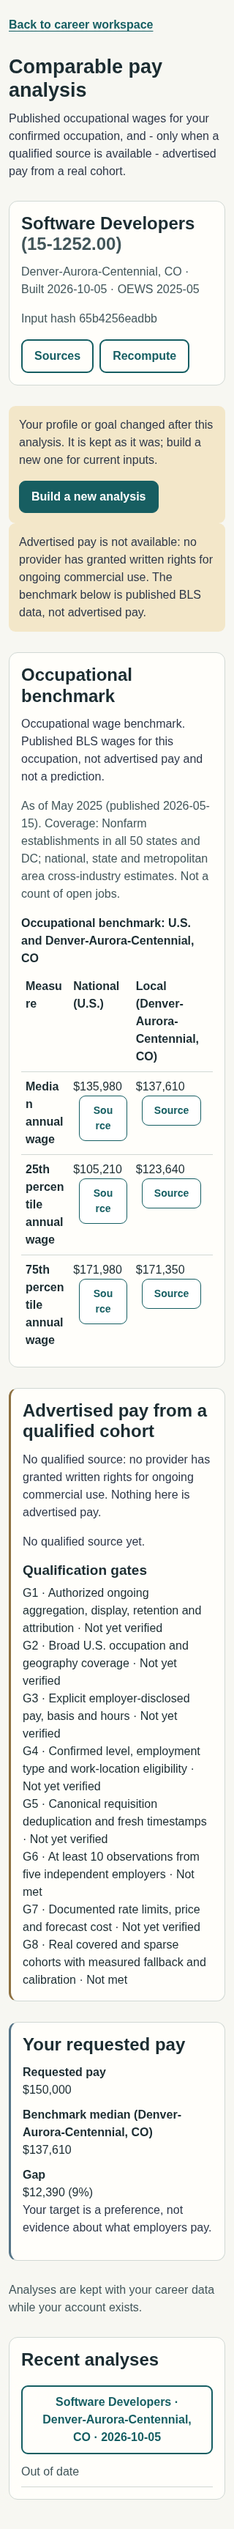
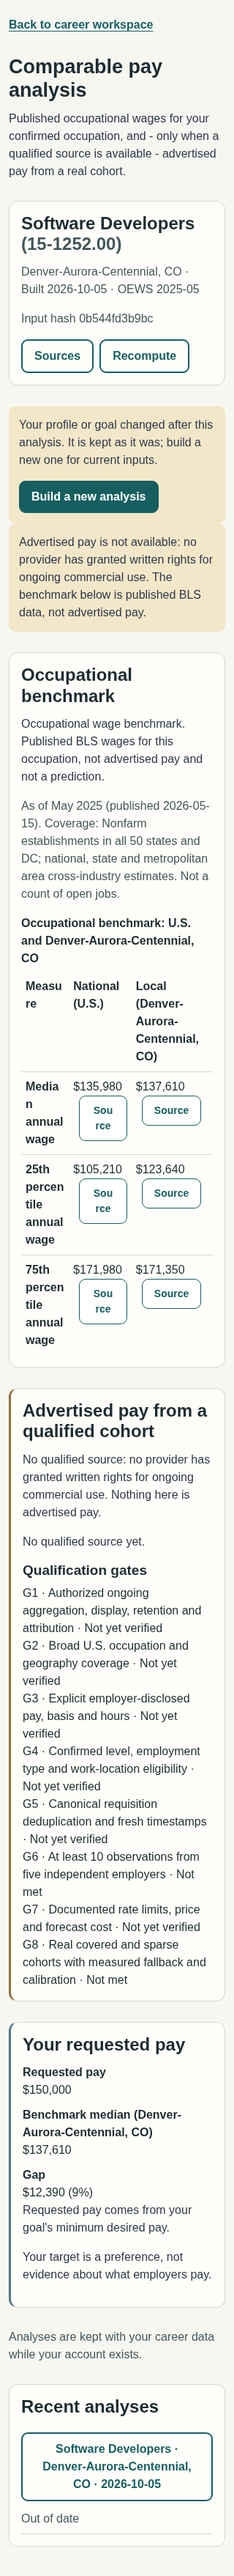
Record the requested-pay source, refresh #384 evidence, drop a volatile hash quote (#384)

diff --git a/AI.ProfilePhotoMaker.API/Services/Career/CareerAgentRunner.cs b/AI.ProfilePhotoMaker.API/Services/Career/CareerAgentRunner.cs
@@ -388,11 +388,15 @@ public sealed class CareerAgentRunner : ICareerAgentRunner
             sourceFailed = true;
         }
         var asOf = Now();
+        // Record which end of the goal's desired pay the scenario compares against, so the stored
+        // row and a recompute agree and the page can say where the target came from.
+        var paySource = goal.DesiredPayMin.HasValue ? "desiredPayMin" : goal.DesiredPayMax.HasValue ? "desiredPayMax" : null;
         var input = new PayAnalysisInput(run.PinnedProfileVersion!.Value, run.PinnedGoalVersion!.Value,
             goal.OccupationCode, goal.OccupationTitle, goal.TargetLocation, goal.DesiredPayMin ?? goal.DesiredPayMax,
             location.Local?.Code, location.Local?.Title, location.Resolution,
             _market!.Oews?.Source.ReferencePeriod, EmbeddedMarketReference.ExpectedSha256,
-            _market.Projections?.Source.ReferencePeriod, PayEvidenceRules.RuleVersion, _paySource.SourceId, rows, asOf);
+            _market.Projections?.Source.ReferencePeriod, PayEvidenceRules.RuleVersion, _paySource.SourceId, rows, asOf,
+            paySource);
         var content = PayAnalysisBuilder.Build(input, _market, sourceFailed);
         var row = new CareerPayAnalysis
         {
@@ -400,7 +404,7 @@ public sealed class CareerAgentRunner : ICareerAgentRunner
             PinnedProfileVersion = input.ProfileVersion, PinnedGoalVersion = input.GoalVersion,
             OccupationCode = input.OccupationCode, OccupationTitle = input.OccupationTitle,
             AreaCode = input.AreaCode, AreaTitle = input.AreaTitle, AreaResolution = input.AreaResolution,
-            LocationInput = input.LocationText, RequestedAnnual = input.RequestedAnnual,
+            LocationInput = input.LocationText, RequestedAnnual = input.RequestedAnnual, RequestedPaySource = input.RequestedPaySource,
             OewsRelease = input.OewsRelease, OewsSnapshotSha256 = input.OewsSnapshotSha256,
             ProjectionsRelease = input.ProjectionsRelease, RuleVersion = input.RuleVersion,
             ObservationSourceId = input.ObservationSourceId, ObservationCount = rows.Count,

diff --git a/AI.ProfilePhotoMaker.API.Tests/Integration/Career/CareerPrivateDataTests.cs b/AI.ProfilePhotoMaker.API.Tests/Integration/Career/CareerPrivateDataTests.cs
@@ -156,6 +156,17 @@ public class CareerPrivateDataTests : IClassFixture<CareerWorkspaceEnabledFactor
             .Contain(i => i.Table == "CareerPayAnalyses" && i.IsUnique && i.Columns.SequenceEqual(new[] { "RunId" }));
     }
 
+    [Fact]
+    public void ThePaySourceMigrationOnlyAddsOneNullableColumn()
+    {
+        var operations = new AddCareerPayAnalysisPaySource().UpOperations;
+        AssertAdditive(operations, allowAddColumn: true);
+        var added = operations.OfType<AddColumnOperation>().Should().ContainSingle().Subject;
+        (added.Table, added.Name, added.IsNullable).Should().Be(("CareerPayAnalyses", "RequestedPaySource", true));
+        operations.OfType<DropTableOperation>().Should().BeEmpty();
+        operations.OfType<DropColumnOperation>().Should().BeEmpty();
+    }
+
     private static void AssertAdditive(IReadOnlyList<MigrationOperation> operations, bool allowAddColumn)
     {
         operations.Should().NotBeEmpty();

diff --git a/AI.ProfilePhotoMaker.API/Migrations/20261005180728_AddCareerPayAnalysisPaySource.Designer.cs b/AI.ProfilePhotoMaker.API/Migrations/20261005180728_AddCareerPayAnalysisPaySource.Designer.cs
@@ -4,6 +4,7 @@ using AI.ProfilePhotoMaker.API.Data;
 using Microsoft.EntityFrameworkCore;
 using Microsoft.EntityFrameworkCore.Infrastructure;
 using Microsoft.EntityFrameworkCore.Metadata;
+using Microsoft.EntityFrameworkCore.Migrations;
 using Microsoft.EntityFrameworkCore.Storage.ValueConversion;
 
 #nullable disable
@@ -11,9 +12,11 @@ using Microsoft.EntityFrameworkCore.Storage.ValueConversion;
 namespace AI.ProfilePhotoMaker.API.Migrations
 {
     [DbContext(typeof(ApplicationDbContext))]
-    partial class ApplicationDbContextModelSnapshot : ModelSnapshot
+    [Migration("20261005180728_AddCareerPayAnalysisPaySource")]
+    partial class AddCareerPayAnalysisPaySource
     {
-        protected override void BuildModel(ModelBuilder modelBuilder)
+        /// <inheritdoc />
+        protected override void BuildTargetModel(ModelBuilder modelBuilder)
         {
 #pragma warning disable 612, 618
             modelBuilder

diff --git a/AI.ProfilePhotoMaker.API.Tests/Services/Career/PayAnalysisBuilderTests.cs b/AI.ProfilePhotoMaker.API.Tests/Services/Career/PayAnalysisBuilderTests.cs
@@ -167,6 +167,18 @@ public class PayAnalysisBuilderTests
     }
 
     [Fact]
+    public void ThePaySourceIsRecordedSoThePageCanSayWhereTheTargetCameFrom()
+    {
+        // The runner records which end of the goal's desired pay it compared against; the builder
+        // reports it verbatim, and recompute reproduces it because the row stores it.
+        var scenario = PayAnalysisBuilder.Build(
+            Input(Fixture(12)) with { RequestedPaySource = "desiredPayMax" }, Reference).Sections.Scenario;
+
+        Assert.Equal("desiredPayMax", scenario.RequestedPaySource);
+        Assert.Null(PayAnalysisBuilder.Build(Input(Fixture(12)), Reference).Sections.Scenario.RequestedPaySource);
+    }
+
+    [Fact]
     public void TheScenarioNamesTheAreaItComparesAgainstAndWhereTheTargetCameFrom()
     {
         var scenario = PayAnalysisBuilder.Build(

diff --git a/AI.ProfilePhotoMaker.API/Migrations/20261005180728_AddCareerPayAnalysisPaySource.cs b/AI.ProfilePhotoMaker.API/Migrations/20261005180728_AddCareerPayAnalysisPaySource.cs
@@ -1,0 +1,28 @@
+using Microsoft.EntityFrameworkCore.Migrations;
+
+#nullable disable
+
+namespace AI.ProfilePhotoMaker.API.Migrations
+{
+    /// <inheritdoc />
+    public partial class AddCareerPayAnalysisPaySource : Migration
+    {
+        /// <inheritdoc />
+        protected override void Up(MigrationBuilder migrationBuilder)
+        {
+            migrationBuilder.AddColumn<string>(
+                name: "RequestedPaySource",
+                table: "CareerPayAnalyses",
+                type: "nvarchar(max)",
+                nullable: true);
+        }
+
+        /// <inheritdoc />
+        protected override void Down(MigrationBuilder migrationBuilder)
+        {
+            migrationBuilder.DropColumn(
+                name: "RequestedPaySource",
+                table: "CareerPayAnalyses");
+        }
+    }
+}

diff --git a/AI.ProfilePhotoMaker.API/Services/Career/CareerPayService.cs b/AI.ProfilePhotoMaker.API/Services/Career/CareerPayService.cs
@@ -99,7 +99,7 @@ public sealed class CareerPayService : ICareerPayService
         var input = new PayAnalysisInput(a.PinnedProfileVersion, a.PinnedGoalVersion, a.OccupationCode,
             a.OccupationTitle, a.LocationInput, a.RequestedAnnual, a.AreaCode, a.AreaTitle, a.AreaResolution,
             a.OewsRelease, a.OewsSnapshotSha256, a.ProjectionsRelease, a.RuleVersion, _source.SourceId,
-            rows, DateTime.SpecifyKind(a.CreatedAt, DateTimeKind.Utc));
+            rows, DateTime.SpecifyKind(a.CreatedAt, DateTimeKind.Utc), a.RequestedPaySource);
         var built = PayAnalysisBuilder.Build(input, _reference, sourceFailed);
         var sections = PayAnalysisBuilder.AsList(built.Sections);
         var json = JsonSerializer.Serialize(sections, MarketBriefJson.Options);

diff --git a/AI.ProfilePhotoMaker.API/Models/Career/CareerPayAnalysis.cs b/AI.ProfilePhotoMaker.API/Models/Career/CareerPayAnalysis.cs
@@ -15,6 +15,9 @@ public class CareerPayAnalysis
     public string AreaResolution { get; set; } = "";
     public string? LocationInput { get; set; }
     public int? RequestedAnnual { get; set; }
+
+    /// <summary>Which end of the goal's desired pay was compared against: desiredPayMin or desiredPayMax.</summary>
+    public string? RequestedPaySource { get; set; }
     public string? OewsRelease { get; set; }
     public string OewsSnapshotSha256 { get; set; } = "";
     public string? ProjectionsRelease { get; set; }

diff --git a/docs/testing/career/384/REVIEW.md b/docs/testing/career/384/REVIEW.md
@@ -16,7 +16,8 @@ No provider qualifies, so the analysis ships **benchmark-first**: the BLS benchm
 | Blocked banner | plain words; the raw code is no longer shown to the user |
 | Scenario | requested 150,000 vs the **local** Denver benchmark median 137,610 → gap 12,390 and 9.0 %, matching the arithmetic and the area the card names; the note says a target is a preference, not evidence |
 | Scenario without a requested salary | `unavailable` (no invented target) |
-| Reproducibility | `POST …/recompute` → `matches: true`, identical `inputHash`; the page reads "Reproduced exactly (input hash 8685312b7c03)" |
+| Scenario provenance | the page names the area it compared against (Denver-Aurora-Centennial, CO) and, when the goal supplies one, which end of the desired pay was used (`desiredPayMin`/`desiredPayMax`); both are recorded in `checks.json` |
+| Reproducibility | `POST …/recompute` → `matches: true`, identical `inputHash`; the page reads "Reproduced exactly (input hash …)"; the current hash is recorded in `checks.json` rather than quoted here, because it pins the as-of instant of that run |
 | Stale after a profile change | `stale: true` (`profile_changed`), sections byte-identical, banner shown |
 | Another owner's analysis | GET 404, recompute 404 |
 | Allowance | not spent (used 0, reserved 0); no text model needed |
